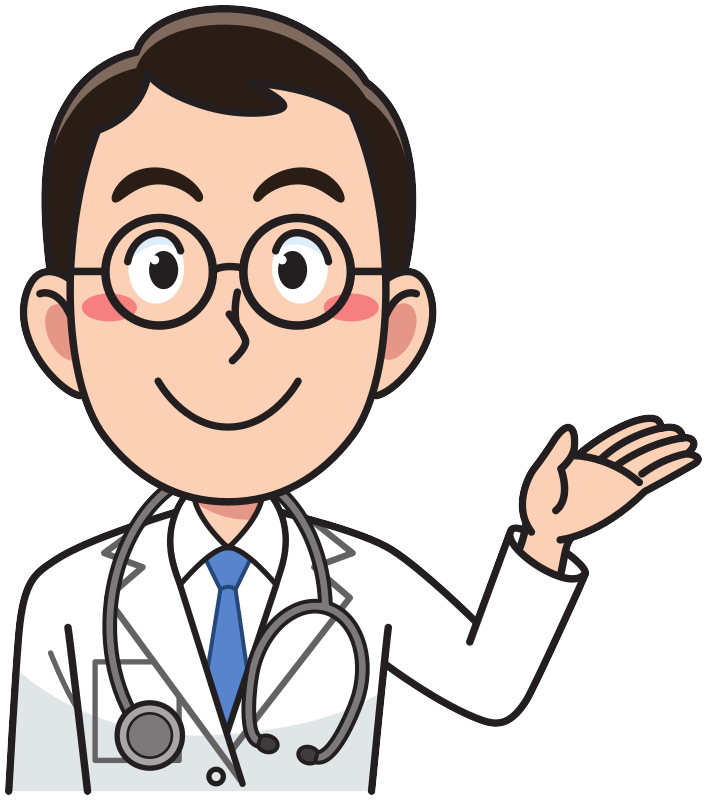
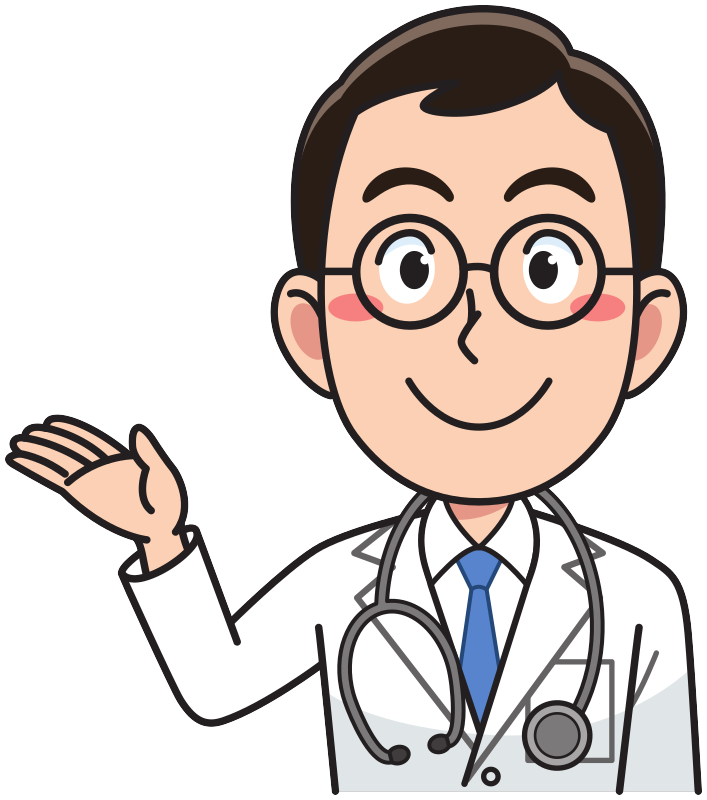
error de orden de imgs corregido :D

diff --git a/src/app/components/inicio/inicio.component.html b/src/app/components/inicio/inicio.component.html
@@ -7,7 +7,7 @@
 
 </div>
 <div class="imagen">
-        <img class="img1" src="../../../assets/img/doctor.png" alt="medicina-doctor-salud">
-        <img class="img2" src="../../../assets/img/corazon.png" alt="">
+        <img class="img1" src="../../../assets/img/corazon.png" alt="medicina-doctor-salud">
+        <img class="img2" src="../../../assets/img/doctor.png" alt="">
 </div>
 <!-- <h1>{{now|date:'hh:mm:ss'}}</h1> -->
